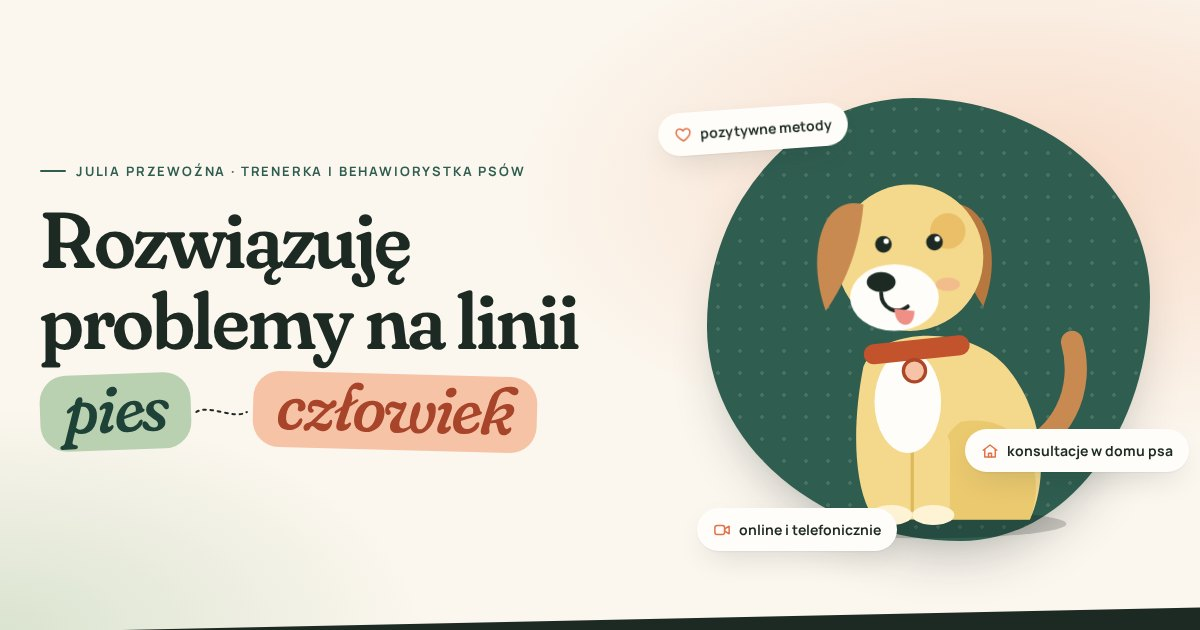
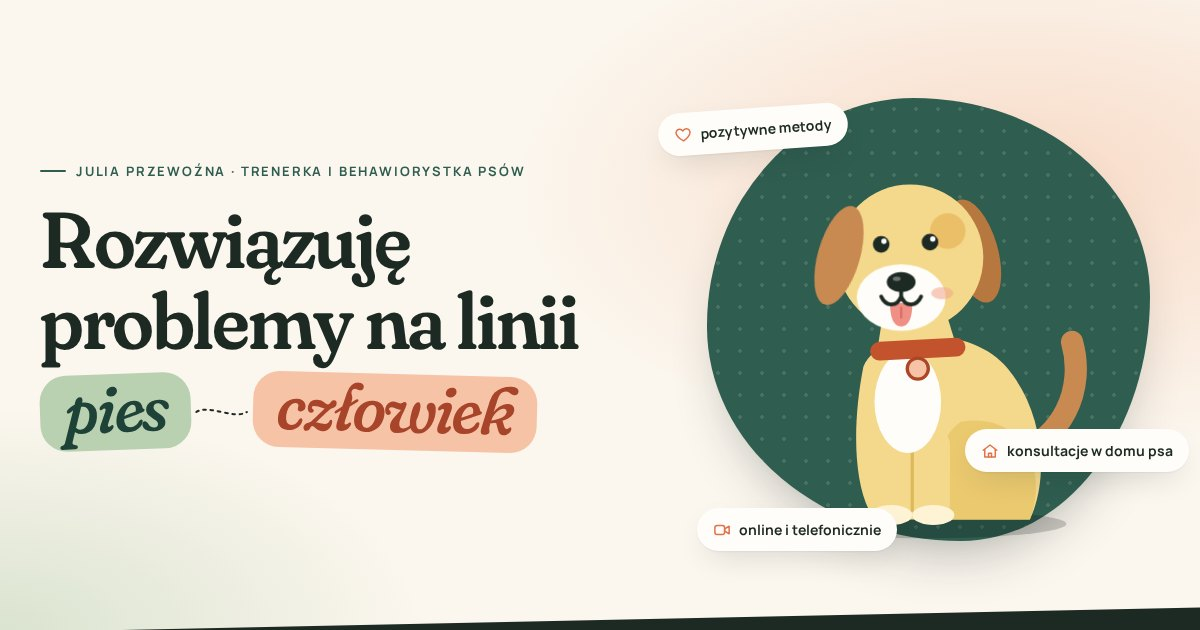
Redraw the hero dog's face and neck so everything sits evenly
- Tongue: rounded shape with a centre groove, tucked under a symmetric
  "w" mouth and centred under the nose (was a flat-topped offset blob)
- Nose with a small highlight, muzzle centred between the eyes
- Floppy ears as rotated ellipses (no hard edge over the head)
- Neck added behind the body; collar level and inside the silhouette;
  blush moved off the ear
- Animation origins updated for the new tongue/eye positions; OG image refreshed

Claude-Session: https://claude.ai/code/session_01NNviqpEBqkR5eutCaCypMu

Changed region(s): [[0.6783, 0.3016, 0.8325, 0.6032], [0.5858, 0.181, 0.7092, 0.2413]]

diff --git a/index.html b/index.html
@@ -139,6 +139,7 @@
           <svg class="dog" viewBox="0 0 400 420" role="img">
             <ellipse class="dog__shadow" cx="205" cy="392" rx="128" ry="13"/>
             <g class="dog__tail"><path d="M282 330 C 330 318, 350 270, 338 228" /></g>
+            <path class="dog__neck" d="M168 200 L224 200 L240 252 L160 252 Z"/>
             <path class="dog__body" d="M150 250 C 140 300, 140 360, 160 388 L 300 388 C 318 350, 312 290, 280 252 C 250 214, 168 212, 150 250 Z"/>
             <path class="dog__haunch" d="M238 300 C 290 290, 318 340, 300 388 L 226 388 C 214 350, 214 316, 238 300 Z"/>
             <rect class="dog__leg" x="160" y="306" width="30" height="84" rx="15"/>
@@ -147,21 +148,22 @@
             <ellipse class="dog__paw" cx="175" cy="384" rx="19" ry="9"/>
             <ellipse class="dog__paw" cx="213" cy="384" rx="19" ry="9"/>
             <ellipse class="dog__chest" cx="190" cy="282" rx="30" ry="46"/>
-            <rect class="dog__collar" x="150" y="226" width="96" height="18" rx="9" transform="rotate(-6 198 235)"/>
-            <circle class="dog__tag" cx="196" cy="254" r="10"/>
+            <rect class="dog__collar" x="156" y="226" width="86" height="17" rx="8.5" transform="rotate(-3 199 234)"/>
+            <circle class="dog__tag" cx="199" cy="252" r="9.5"/>
             <g class="dog__head">
-              <path class="dog__ear dog__ear--back" d="M222 104 C 262 96, 276 150, 258 196 C 246 178, 232 150, 222 104 Z"/>
+              <ellipse class="dog__ear dog__ear--back" cx="250" cy="146" rx="21" ry="48" transform="rotate(-16 250 146)"/>
               <circle class="dog__skull" cx="192" cy="152" r="66"/>
-              <path class="dog__ear dog__ear--front" d="M150 104 C 112 94, 98 150, 116 200 C 130 180, 146 150, 150 104 Z"/>
-              <ellipse class="dog__muzzle" cx="178" cy="188" rx="40" ry="30"/>
-              <ellipse class="dog__nose" cx="166" cy="174" rx="13" ry="9"/>
-              <path class="dog__mouth" d="M166 184 C 166 198, 180 204, 190 196"/>
-              <path class="dog__tongue" d="M178 198 C 178 216, 196 218, 196 200"/>
+              <g class="dog__ear dog__ear--front"><ellipse cx="128" cy="150" rx="19" ry="46" transform="rotate(16 128 150)"/></g>
+              <ellipse class="dog__muzzle" cx="184" cy="188" rx="40" ry="30"/>
+              <g class="dog__tongue"><path d="M174 193 C 174 208, 178 214, 184 214 C 190 214, 194 208, 194 193 Z"/><path class="dog__tongue-line" d="M184 197 L184 206"/></g>
+              <path class="dog__mouth" d="M184 180 L184 187 M166 187 C 170 196, 180 197, 184 187 C 188 197, 198 196, 202 187"/>
+              <ellipse class="dog__nose" cx="184" cy="174" rx="13" ry="9"/>
+              <ellipse class="dog__nose-shine" cx="180" cy="171" rx="3.5" ry="2"/>
               <circle class="dog__spot" cx="226" cy="128" r="16"/>
-              <ellipse class="dog__blush" cx="226" cy="176" rx="11" ry="6"/>
+              <ellipse class="dog__blush" cx="221" cy="184" rx="10" ry="5.5"/>
               <g class="dog__eyes"><g class="dog__pupils">
-                <circle cx="168" cy="140" r="7.5"/><circle cx="214" cy="138" r="7.5"/>
-                <circle class="dog__shine" cx="170.5" cy="137.2" r="2.4"/><circle class="dog__shine" cx="216.5" cy="135.2" r="2.4"/>
+                <circle cx="166" cy="140" r="7.5"/><circle cx="210" cy="138" r="7.5"/>
+                <circle class="dog__shine" cx="168.5" cy="137.2" r="2.4"/><circle class="dog__shine" cx="212.5" cy="135.2" r="2.4"/>
               </g></g>
             </g>
           </svg>

diff --git a/styles.css b/styles.css
@@ -264,10 +264,10 @@ body.menu-open { overflow: hidden; }
 /* the dog */
 .dog { position: absolute; inset: 4% 4% 0; width: 92%; height: auto; overflow: visible; }
 .dog__shadow { fill: rgba(0,0,0,.18); }
-.dog__body, .dog__leg, .dog__skull { fill: var(--butter); }
+.dog__body, .dog__leg, .dog__skull, .dog__neck { fill: var(--butter); }
 .dog__haunch { fill: #ebc96f; }
 .dog__chest, .dog__muzzle { fill: var(--paper); }
-.dog__ear { fill: #c98a52; }
+.dog__ear, .dog__ear ellipse { fill: #c98a52; }
 .dog__ear--back { fill: #b77840; }
 .dog__spot { fill: #e9bb63; opacity: .9; }
 .dog__nose { fill: var(--ink); }
@@ -292,18 +292,20 @@ body.menu-open { overflow: hidden; }
 .bark.is-on { opacity: 1; transform: none; }
 .bark:not(.is-on) { transition-duration: 150ms; }
 .dog__mouth { fill: none; stroke: var(--ink); stroke-width: 3.5; stroke-linecap: round; }
-.dog__tongue { fill: #ef8f86; }
+.dog__tongue path { fill: #ef8f86; }
+.dog__tongue .dog__tongue-line { fill: none; stroke: #d9706a; stroke-width: 2; stroke-linecap: round; }
+.dog__nose-shine { fill: #fff; opacity: .35; }
 .dog__collar { fill: var(--accent); }
 .dog__tag { fill: var(--peach); stroke: var(--accent-deep); stroke-width: 3; }
 .dog__tail path { fill: none; stroke: #c98a52; stroke-width: 20; stroke-linecap: round; }
 .dog__tail { transform-origin: 282px 330px; transform-box: view-box; animation: wag .5s ease-in-out infinite alternate; }
 @keyframes wag { from { transform: rotate(-14deg); } to { transform: rotate(16deg); } }
-.dog__eyes { transform-origin: 190px 139px; transform-box: view-box; animation: blink 5s infinite; }
+.dog__eyes { transform-origin: 188px 139px; transform-box: view-box; animation: blink 5s infinite; }
 @keyframes blink { 0%, 92%, 100% { transform: scaleY(1); } 95% { transform: scaleY(.1); } }
 .dog__head { transform-origin: 192px 220px; transform-box: view-box; transition: transform 450ms var(--ease-pop); }
-.dog__ear--front { transform-origin: 150px 104px; transform-box: view-box; animation: ear 6s ease-in-out infinite; }
+.dog__ear--front { transform-origin: 140px 104px; transform-box: view-box; animation: ear 6s ease-in-out infinite; }
 @keyframes ear { 0%, 80%, 100% { transform: rotate(0); } 86% { transform: rotate(8deg); } 92% { transform: rotate(-3deg); } }
-.dog__tongue { transform-origin: 187px 198px; transform-box: view-box; animation: pant .9s ease-in-out infinite alternate; }
+.dog__tongue { transform-origin: 184px 193px; transform-box: view-box; animation: pant .9s ease-in-out infinite alternate; }
 @keyframes pant { from { transform: scaleY(.85); } to { transform: scaleY(1.1); } }
 
 .sticker {
